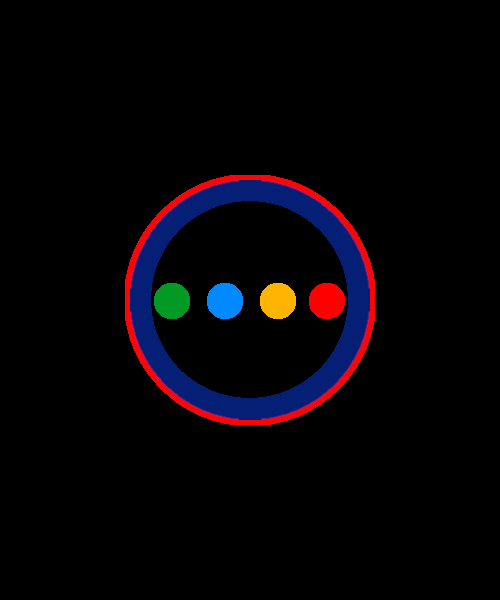
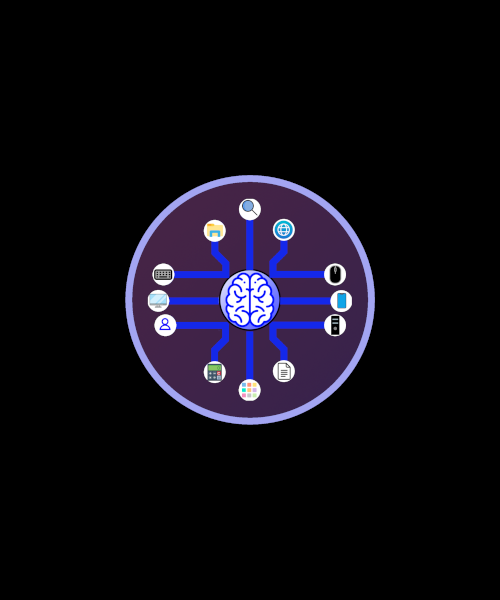
Passage des booting en mode copilote

Changed region(s): [[0.24, 0.27, 0.75, 0.72]]

diff --git a/src/copiloteGUI.py b/src/copiloteGUI.py
@@ -12,7 +12,7 @@ VERSION = "I2025-1.00"
 class guiCopilote:
     def __init__(self, neuronConfigFileRyley: str, neuronConfigFileSix: str, version: str):
         # Varriable
-        self.__nameSoft = "Arrera RYLEY"
+        self.__nameSoft = "Arrera Copilote"
         self.__version = version
         self.__codeHelpActived = False
         self.__litleWindowsActived = False
@@ -202,10 +202,6 @@ class guiCopilote:
         self.__backgroudBoot5 = self.__arrTK.createArreraBackgroudImage(self.__screen,
                                                                         imageLight=emplacementLight + listIMG[13],
                                                                         imageDark=emplacementDark + listIMG[13],
-                                                                        width=500, height=600)
-        self.__backgroudBoot6 = self.__arrTK.createArreraBackgroudImage(self.__screen,
-                                                                        imageLight=emplacementLight + listIMG[14],
-                                                                        imageDark=emplacementDark + listIMG[14],
                                                                         width=500, height=600)
 
         self.__backgroundTopCodehelp = self.__arrTK.createArreraBackgroudImage(self.__screen,
@@ -427,16 +423,16 @@ class guiCopilote:
     def __sequenceBoot(self):
         self.__disableAllFrame()
         self.__backgroudBoot1.pack()
-        time.sleep(0.2)
+        time.sleep(0.4)
         self.__backgroudBoot1.pack_forget()
         self.__backgroudBoot2.pack()
-        time.sleep(0.2)
+        time.sleep(0.4)
         self.__backgroudBoot2.pack_forget()
         self.__backgroudBoot3.pack()
-        time.sleep(0.2)
+        time.sleep(0.4)
         self.__backgroudBoot3.pack_forget()
         self.__backgroudBoot4.pack()
-        time.sleep(0.2)
+        time.sleep(0.4)
         self.__backgroudBoot4.pack_forget()
         self.__backgroudBoot5.pack()
         time.sleep(0.2)
